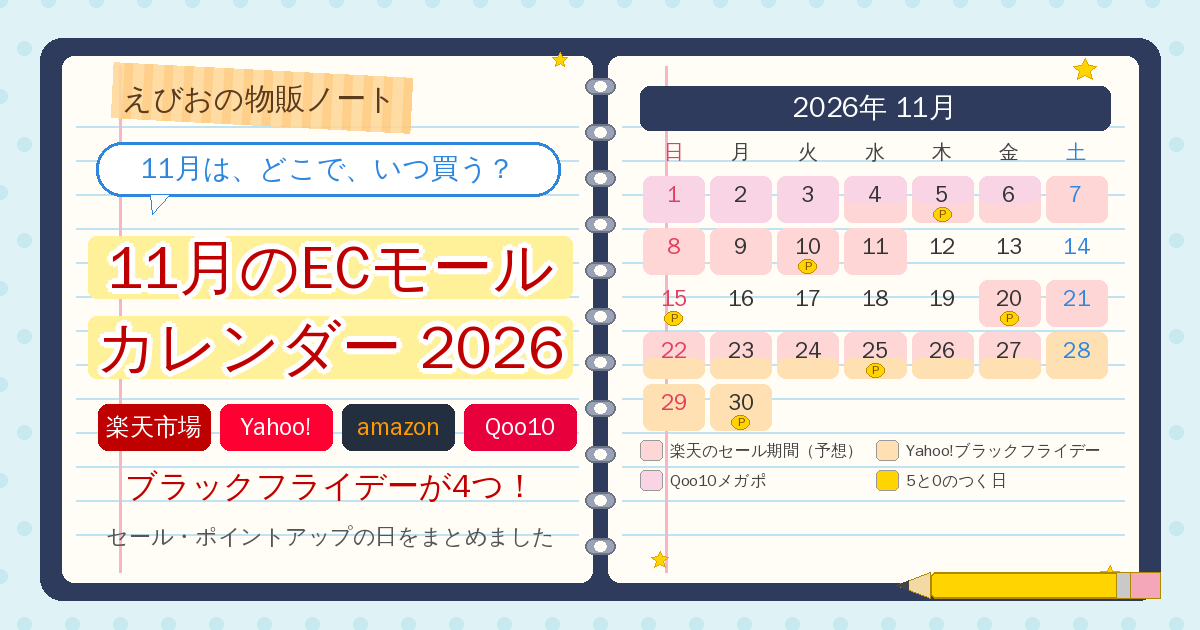
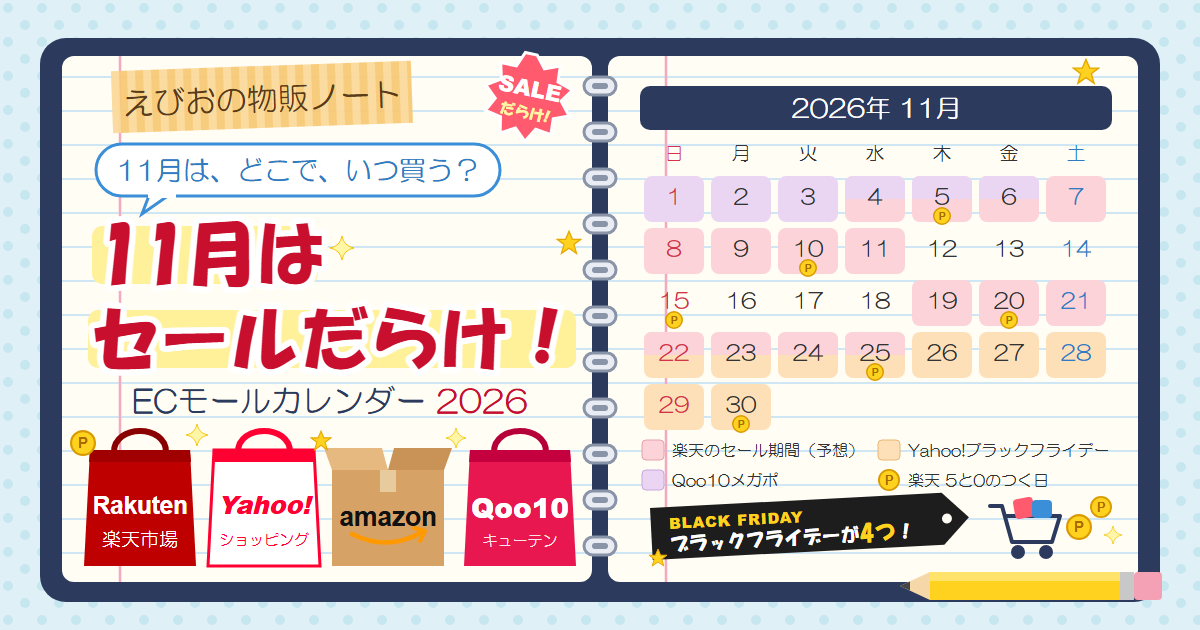
11月のECモールカレンダー：楽天の日程をRMSで確認して直し、アイキャッチを作り直し

diff --git a/posts/2026-10-27-ec-calendar-2026-11.html b/posts/2026-10-27-ec-calendar-2026-11.html
@@ -3,12 +3,18 @@
 1. 11月はセールだらけ！楽天・Yahoo!・Amazon・Qoo10のECモールカレンダー2026
 2. ブラックフライデーが4つも!?2026年11月のECモールカレンダーをまとめました
 3. 11月25日の「5のつく日」がない!?せどりで知っておきたい11月のECモール予定表
+タイトル：1案目に決定（2026/10/28 えびお）
 カテゴリー：せどり
 スラッグ：ec-calendar-2026-11
-WordPress 下書き：1918番（2026/10/27 クラウド版で作成）
-アイキャッチ：2026-10-27-ec-calendar-2026-11.png
-日程は 2026/10/27 に調べたもの。公式発表がまだのものには【要確認】をつけてある
+WordPress 下書き：1918番（2026/10/27 クラウド版で作成、2026/10/28 アプリ版で仕上げ）
+アイキャッチ：2026-10-27-ec-calendar-2026-11.png（2026/10/28 ロゴ入りで作り直し）
+日程は 2026/10/27 に調べ、10/28 に楽天の日程を RMS で確かめた
+・楽天マラソン 11/4 20:00〜11/11 1:59（RMS の告知解禁日は 11/2 10:00）
+・楽天ブラックフライデー 11/19 20:00〜11/25 1:59（RMS の告知解禁日は 11/12 10:00）
+・どちらも RMS で決まっているが、えびおの判断で記事では「予想」と書く（解禁日のあとで「予想」を外してよい）
+・楽天イーグルス感謝祭は、RMS の11月のキャンペーン一覧になかったので外した
 -->
+
 
 <!-- wp:paragraph -->
 <p>こんにちは！えびおです。</p>
@@ -47,11 +53,11 @@ WordPress 下書き：1918番（2026/10/27 クラウド版で作成）
 <!-- /wp:paragraph -->
 
 <!-- wp:table {"hasFixedLayout":false} -->
-<figure class="wp-block-table"><table><thead><tr><th>日にち</th><th>楽天市場</th><th>Yahoo!ショッピング</th><th>Amazon・Qoo10</th></tr></thead><tbody><tr><td>1日（日）</td><td>ワンダフルデー</td><td>プレミアムな日曜日</td><td>Qoo10 メガポ 始まり</td></tr><tr><td>4日（水）</td><td>お買い物マラソン 20時〜（予想）</td><td></td><td></td></tr><tr><td>5日（木）</td><td>5と0のつく日</td><td>5のつく日</td><td></td></tr><tr><td>6日（金）</td><td>マラソン中</td><td></td><td>Qoo10 メガポ 終わり</td></tr><tr><td>8日（日）</td><td>マラソン中</td><td>プレミアムな日曜日</td><td></td></tr><tr><td>10日（火）</td><td>5と0のつく日・マラソン中</td><td></td><td></td></tr><tr><td>11日（水）</td><td>マラソン 1時59分まで（予想）</td><td>ヤフショ感謝デー</td><td></td></tr><tr><td>14〜16日</td><td>イーグルス感謝祭（予想）</td><td>15日 5のつく日・日曜日</td><td></td></tr><tr><td>18日（水）</td><td>ご愛顧感謝デー（いちばの日）</td><td></td><td></td></tr><tr><td>20日（金）</td><td>5と0のつく日・ブラックフライデー 始まり（予想）</td><td></td><td>Qoo10 メガ割 始まり（予想）</td></tr><tr><td>22日（日）</td><td>ブラックフライデー中（予想）</td><td>ブラックフライデー 始まり</td><td>Amazon 先行セール？（予想）</td></tr><tr><td>25日（水）</td><td>5と0のつく日・ブラックフライデー中（予想）</td><td><strong>5のつく日はお休み</strong></td><td>Amazon ブラックフライデー？（予想）</td></tr><tr><td>27日（金）</td><td>ブラックフライデー 1時59分まで（予想）</td><td>ブラックフライデー中</td><td>Amazon ブラックフライデー？（予想）</td></tr><tr><td>30日（月）</td><td>5と0のつく日</td><td>ブラックフライデー 1時59分まで</td><td>Qoo10 メガ割は12月2日まで（予想）</td></tr></tbody></table></figure>
+<figure class="wp-block-table"><table><thead><tr><th>日にち</th><th>楽天市場</th><th>Yahoo!ショッピング</th><th>Amazon・Qoo10</th></tr></thead><tbody><tr><td>1日（日）</td><td>ワンダフルデー</td><td>プレミアムな日曜日</td><td>Qoo10 メガポ 始まり</td></tr><tr><td>4日（水）</td><td>お買い物マラソン 20時〜（予想）</td><td></td><td></td></tr><tr><td>5日（木）</td><td>5と0のつく日</td><td>5のつく日</td><td></td></tr><tr><td>6日（金）</td><td>マラソン中</td><td></td><td>Qoo10 メガポ 終わり</td></tr><tr><td>8日（日）</td><td>マラソン中</td><td>プレミアムな日曜日</td><td></td></tr><tr><td>10日（火）</td><td>5と0のつく日・マラソン中</td><td></td><td></td></tr><tr><td>11日（水）</td><td>マラソン 1時59分まで（予想）</td><td>ヤフショ感謝デー</td><td></td></tr><tr><td>15日（日）</td><td>5と0のつく日</td><td>5のつく日・プレミアムな日曜日</td><td></td></tr><tr><td>18日（水）</td><td>ご愛顧感謝デー（いちばの日）</td><td></td><td></td></tr><tr><td>19日（木）</td><td>ブラックフライデー 20時〜（予想）</td><td></td><td></td></tr><tr><td>20日（金）</td><td>5と0のつく日・ブラックフライデー中（予想）</td><td></td><td>Qoo10 メガ割 始まり（予想）</td></tr><tr><td>22日（日）</td><td>ブラックフライデー中（予想）</td><td>ブラックフライデー 始まり</td><td>Amazon 先行セール？（予想）</td></tr><tr><td>25日（水）</td><td>ブラックフライデー 1時59分まで（予想）・5と0のつく日</td><td><strong>5のつく日はお休み</strong></td><td>Amazon ブラックフライデー？（予想）</td></tr><tr><td>27日（金）</td><td></td><td>ブラックフライデー中</td><td>Amazon ブラックフライデー？（予想）</td></tr><tr><td>30日（月）</td><td>5と0のつく日</td><td>ブラックフライデー 1時59分まで</td><td>Qoo10 メガ割は12月2日まで（予想）</td></tr></tbody></table></figure>
 <!-- /wp:table -->
 
 <!-- wp:paragraph -->
-<p>「予想」と書いたものは、まだ公式の発表がなく、去年の日程から見た見込みです。楽天のマラソンは、例年だと始まる2日くらい前に発表されます。</p>
+<p>「予想」と書いたものは、まだ公式の発表がなく、えびおが見込んでいる日程です。楽天のマラソンやブラックフライデーは、例年だと始まる数日から1週間くらい前に発表されます。</p>
 <!-- /wp:paragraph -->
 
 <!-- wp:paragraph -->
@@ -59,7 +65,7 @@ WordPress 下書き：1918番（2026/10/27 クラウド版で作成）
 <!-- /wp:paragraph -->
 
 <!-- wp:html -->
-<div class="speech-wrap sb-id-1 sbs-stn sbp-l sbis-sb cf"><div class="speech-person"><figure class="speech-icon"><img class="speech-icon-image" src="https://iseebio.jp/wp-content/uploads/2026/10/ebio-bikkuri.png" alt="えびお（びっくり）" width="160" height="160" /></figure><div class="speech-name">えびお</div></div><div class="speech-balloon"><p>こうやって並べると、20日からの10日間は、どこもブラックフライデーだらけですね！</p></div></div>
+<div class="speech-wrap sb-id-1 sbs-stn sbp-l sbis-sb cf"><div class="speech-person"><figure class="speech-icon"><img class="speech-icon-image" src="https://iseebio.jp/wp-content/uploads/2026/10/ebio-bikkuri.png" alt="えびお（びっくり）" width="160" height="160" /></figure><div class="speech-name">えびお</div></div><div class="speech-balloon"><p>こうやって並べると、19日からの10日間くらいは、どこもブラックフライデーだらけですね！</p></div></div>
 <!-- /wp:html -->
 
 <!-- wp:heading -->
@@ -71,7 +77,7 @@ WordPress 下書き：1918番（2026/10/27 クラウド版で作成）
 <!-- /wp:paragraph -->
 
 <!-- wp:html -->
-<div class="blank-box bb-red"><ul><li>11月1日（日）：ワンダフルデー（エントリーして3,000円以上買うと、全ショップでポイント3倍）</li><li>11月4日（水）20時〜11日（水）1時59分：お買い物マラソン（予想）</li><li>11月5日・10日・15日・20日・25日・30日：5と0のつく日</li><li>11月14日（土）〜16日（月）ごろ：楽天イーグルス感謝祭（予想）</li><li>11月18日（水）：ご愛顧感謝デー（いちばの日。会員ランクで最大4倍、上限1,000ポイント）</li><li>11月20日（金）20時〜27日（金）1時59分：ブラックフライデー（予想）</li></ul></div>
+<div class="blank-box bb-red"><ul><li>11月1日（日）：ワンダフルデー（エントリーして3,000円以上買うと、全ショップでポイント3倍）</li><li>11月4日（水）20時〜11日（水）1時59分：お買い物マラソン（予想）</li><li>11月5日・10日・15日・20日・25日・30日：5と0のつく日</li><li>11月18日（水）：ご愛顧感謝デー（いちばの日。会員ランクで最大4倍、上限1,000ポイント）</li><li>11月19日（木）20時〜25日（水）1時59分：ブラックフライデー（予想）</li></ul></div>
 <!-- /wp:html -->
 
 <!-- wp:paragraph -->
@@ -79,19 +85,19 @@ WordPress 下書き：1918番（2026/10/27 クラウド版で作成）
 <!-- /wp:paragraph -->
 
 <!-- wp:paragraph -->
-<p>1つのお店で税込み1,000円以上買うと、1店舗に数えられます。買いまわりの倍率は最大で＋9倍、もらえるポイントの上限は7,000ポイントです。<mark style="background-color:rgba(0, 0, 0, 0);color:#c00000" class="has-inline-color"><strong>【要確認：今回も同じ上限か】</strong></mark></p>
+<p>1つのお店で税込み1,000円以上買うと、1店舗に数えられます。買いまわりの倍率は最大で＋9倍（ふだんの1倍と合わせて10倍）、もらえるポイントの上限は7,000ポイントです。</p>
 <!-- /wp:paragraph -->
 
 <!-- wp:paragraph -->
-<p>マラソンの日程は、去年の11月と同じ「4日の20時から11日の1時59分まで」が有力です。ただ、まだ公式の発表はありません。<mark style="background-color:rgba(0, 0, 0, 0);color:#c00000" class="has-inline-color"><strong>【要確認：マラソンの開催日程】</strong></mark></p>
+<p>マラソンは、去年の11月と同じ、4日（水）の20時から11日（水）の1時59分までと予想しています。</p>
 <!-- /wp:paragraph -->
 
 <!-- wp:paragraph -->
-<p>ブラックフライデーも、去年は11月20日の20時から27日の1時59分まででした。今年も同じころと見られていますが、発表は開催の数日前です。<mark style="background-color:rgba(0, 0, 0, 0);color:#c00000" class="has-inline-color"><strong>【要確認：楽天ブラックフライデーの日程】</strong></mark></p>
+<p>ブラックフライデーは、去年は11月20日の20時から27日の1時59分まででした。今年は少し早く、19日（木）の20時から25日（水）の1時59分までと予想しています。</p>
 <!-- /wp:paragraph -->
 
 <!-- wp:paragraph -->
-<p>コツは、<mark style="background-color:#fff09a" class="has-inline-color">買いまわりの期間と「5と0のつく日」を重ねること</mark>です。11月なら、5日・10日・20日・25日がその日に当たります。</p>
+<p>コツは、<mark style="background-color:#fff09a" class="has-inline-color">買いまわりの期間と「5と0のつく日」を重ねること</mark>です。11月なら、マラソン中の5日・10日と、ブラックフライデー中の20日がその日に当たります。</p>
 <!-- /wp:paragraph -->
 
 <!-- wp:paragraph -->
@@ -203,7 +209,7 @@ WordPress 下書き：1918番（2026/10/27 クラウド版で作成）
 <!-- /wp:paragraph -->
 
 <!-- wp:paragraph -->
-<p>11月なら、5日・10日・20日・25日がねらい目です。Yahoo!ショッピングは、5日・15日と、22日からのブラックフライデーです。</p>
+<p>11月なら、5日・10日・20日がねらい目です。Yahoo!ショッピングは、5日・15日と、22日からのブラックフライデーです。</p>
 <!-- /wp:paragraph -->
 
 <!-- wp:paragraph -->
@@ -263,7 +269,7 @@ WordPress 下書き：1918番（2026/10/27 クラウド版で作成）
 <!-- /wp:paragraph -->
 
 <!-- wp:paragraph -->
-<p>楽天のマラソンやAmazonのブラックフライデーは発表待ちなので、公式ページで日程を確かめて、エントリーは買う前にすませましょう。</p>
+<p>楽天のマラソンやブラックフライデー、Amazonのブラックフライデーは発表待ちなので、公式ページで日程を確かめて、エントリーは買う前にすませましょう。</p>
 <!-- /wp:paragraph -->
 
 <!-- wp:html -->
